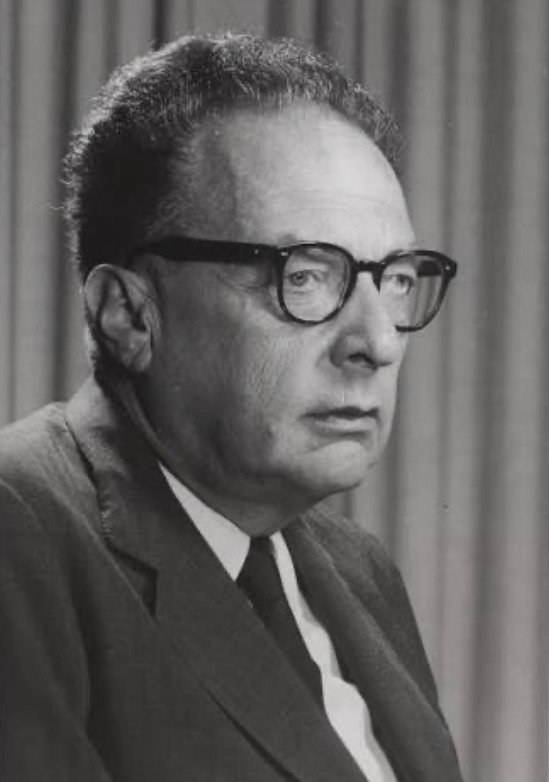
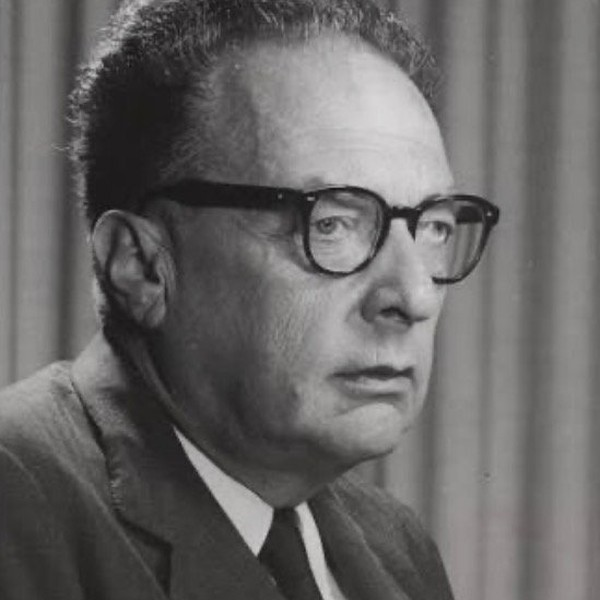
Theorists: frame every portrait the same way
Each portrait is cropped square around the face (face about 42% of the
circle, eyes just above centre) using face detection, so the circles
match instead of some faces filling the frame and others sitting small
in a wide shot. The lineage portraits get framed copies in theorists/
so Translation in History keeps its own crops. Build 1002-1830.

Claude-Session: https://claude.ai/code/session_01Ktt7MZfdPLXrLfwMJzGNAd

Changed region(s): [[0.0, 0.3, 0.867, 1.0], [0.0929, 0.0, 0.7432, 0.3], [0.9909, 0.9, 1.0, 1.0]]

diff --git a/index.html b/index.html
@@ -14631,7 +14631,7 @@ function wireProfileButtons() {
 /* Printed small under the notice. When a screen looks wrong, the first
    question is always whether the browser is showing an old copy, and
    this answers it without anybody having to guess. */
-const BUILD = "1002-1810";
+const BUILD = "1002-1830";
 function paintBuild() {
   const n = document.getElementById("build-stamp");
   if (n) n.textContent = " \u00b7 build " + BUILD;
@@ -15874,11 +15874,11 @@ const THEORISTS = [
     bio: "Rome’s greatest orator translated Greek speeches into Latin and described doing it as an orator, not as an interpreter: keeping the force of the argument rather than counting words. His remark is the oldest statement of the word-for-word vs. sense-for-sense debate.",
     th: ["Word-for-Word vs. Sense-for-Sense"] },
   { id: "jerome", name: "St. Jerome", life: "c. 347 – 420", from: "Roman Christian",
-    role: "Bible translator", img: "lineage/jerome.jpg", credit: "Painted depiction",
+    role: "Bible translator", img: "theorists/jerome.jpg", credit: "Painted depiction",
     bio: "Translator of the Latin Bible later known as the Vulgate. In his Letter 57 he defended translating sense for sense, except in scripture — a defence that framed Western thinking about translation for over a thousand years.",
     th: ["Word-for-Word vs. Sense-for-Sense"] },
   { id: "schleiermacher", name: "Friedrich Schleiermacher", life: "1768 – 1834", from: "German",
-    role: "Theologian and philosopher", img: "lineage/friedrich-schleiermacher.jpg", credit: "Historical engraving",
+    role: "Theologian and philosopher", img: "theorists/friedrich-schleiermacher.jpg", credit: "Historical engraving",
     bio: "Theologian, philosopher and translator of Plato. His 1813 lecture set out the two directions a translator can take — bring the author to the reader, or the reader to the author — the root of today’s domestication and foreignization debate.",
     th: ["Schleiermacher: Two Methods of Translating"] },
   { id: "benjamin", name: "Walter Benjamin", life: "1892 – 1940", from: "German",
@@ -15898,7 +15898,7 @@ const THEORISTS = [
     bio: "Co-author, with Jean-Paul Vinay, of <i>Comparative Stylistics of French and English</i> and its seven translation procedures.",
     th: ["Vinay & Darbelnet: Comparative Stylistics"] },
   { id: "nida", name: "Eugene A. Nida", life: "1914 – 2011", from: "American",
-    role: "Linguist and Bible translator", img: "lineage/eugene-nida.jpg", credit: "Photograph",
+    role: "Linguist and Bible translator", img: "theorists/eugene-nida.jpg", credit: "Photograph",
     bio: "Linguist at the American Bible Society who led Bible translation projects across many languages. He made the reader’s response central to translation with his distinction between formal and dynamic equivalence.",
     th: ["Nida: Formal and Dynamic Equivalence"] },
   { id: "catford", name: "J. C. Catford", life: "1917 – 2009", from: "Scottish",
@@ -15966,7 +15966,7 @@ const THEORISTS = [
     bio: "Author of the classic introduction <i>Translation Studies</i>, and a leading voice of the cultural turn and of postcolonial translation studies.",
     th: ["The Cultural Turn", "Postcolonial Translation Theory"] },
   { id: "venuti", name: "Lawrence Venuti", life: "b. 1953", from: "American",
-    role: "Translator and theorist", img: "lineage/lawrence-venuti.jpg", credit: "Photograph",
+    role: "Translator and theorist", img: "theorists/lawrence-venuti.jpg", credit: "Photograph",
     bio: "Translator from Italian, French and Catalan. Named the translator’s invisibility and set domestication against foreignization.",
     th: ["Venuti: Domestication and Foreignization"] },
   { id: "steiner", name: "George Steiner", life: "1929 – 2020", from: "Born in Paris; British and American careers",
